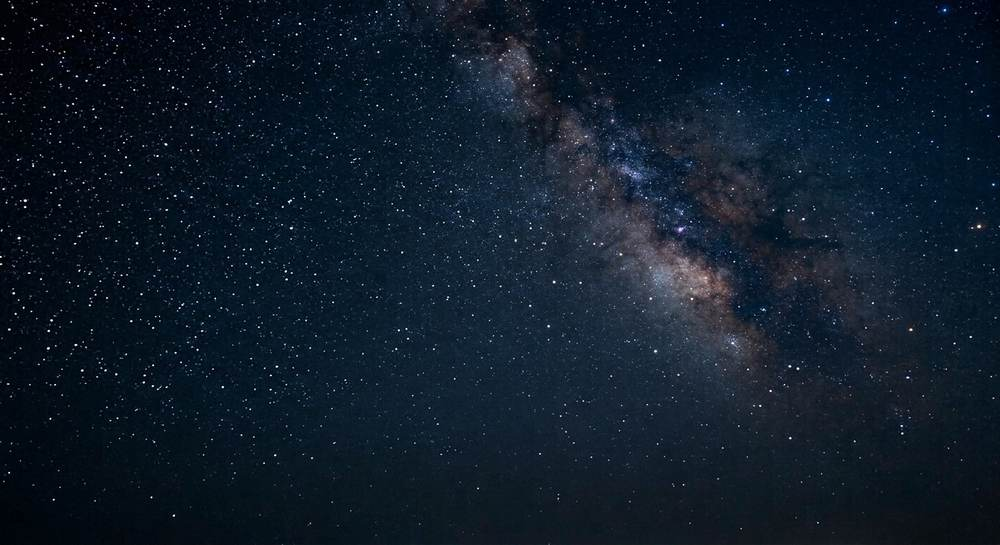
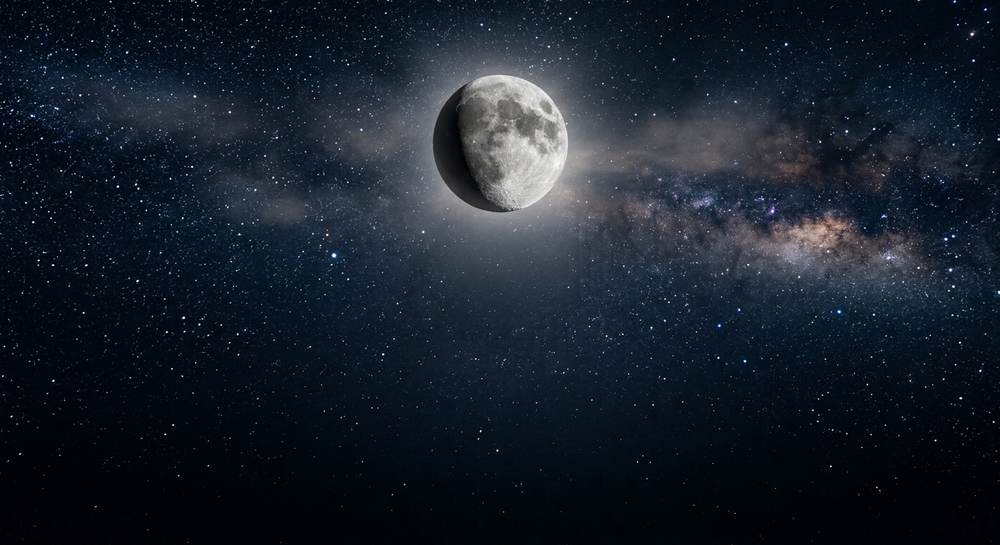
auth-sky: দিনে আসল সূর্য, রাতে আসল চাঁদ (ফটোরিয়ালিস্টিক)
- clear-day.jpg: উপরে-ডানায় বাস্তব সূর্য (glare+bloom); মোবাইল crop-এ ধরে রাখতে clear-day/heat-এ background-position: 70% top
- clear-night.jpg: উপরে-কেন্দ্রে crater-সহ বাস্তব চাঁদ + halo
- লাইট থিমে scrim-এর উপরের wash .30→.16 + হেডারে paper-shadow; ডার্ক থিমে পুরনো wash override (light ink readability)
- ছবিতে জ্যোতিষ্ক থাকায় clear-day/clear-night/heat-এ orb-আভা hidden; dusk-এ বহাল
- CACHE_VERSION 242→243 + ১০৫টি ?v= পিন

diff --git a/index.html b/index.html
@@ -5,9 +5,9 @@
   <meta http-equiv="Content-Security-Policy" content="default-src 'self'; script-src 'self' https://www.gstatic.com https://www.google.com/recaptcha/ https://www.gstatic.com/recaptcha/; frame-src 'self' https://www.google.com/recaptcha/; style-src 'self' 'unsafe-inline'; img-src 'self' data: blob:; font-src 'self'; connect-src 'self' https: wss:; manifest-src 'self'; worker-src 'self'; base-uri 'self'; object-src 'none'; form-action 'none'">
   <meta name="referrer" content="no-referrer">
   <script src="js/sanitize-url.js"></script>
-  <script src="js/app-entry.js?v=242" data-entry="student"></script>
-  <script type="module" src="js/main.js?v=242"></script>
-  <script src="js/topbar-connectivity.js?v=24261005-syncborder" defer></script>
+  <script src="js/app-entry.js?v=243" data-entry="student"></script>
+  <script type="module" src="js/main.js?v=243"></script>
+  <script src="js/topbar-connectivity.js?v=24361005-syncborder" defer></script>
   <script type="module" src="js/realtime-sync-entry.js"></script>
   <script src="js/appearance-boot.js"></script>
   <script src="js/theme-logos.js?v=158"></script>
@@ -33,21 +33,21 @@
        HTML and fetches them in parallel, instead of a render-blocking serial
        waterfall (design-system.css first, its imports one round-trip later).
        tools/css-order-check.mjs + tests/css-order.test.mjs keep this in sync. -->
-  <link rel="stylesheet" href="css/foundation.css?v=242">
-  <link rel="stylesheet" href="css/ui-layout.css?v=242">
-  <link rel="stylesheet" href="css/ui-components.css?v=242">
-  <link rel="stylesheet" href="css/ui-forms.css?v=242">
-  <link rel="stylesheet" href="css/ui-features.css?v=242">
-  <link rel="stylesheet" href="css/notice-board.css?v=242">
-  <link rel="stylesheet" href="css/ui-status.css?v=242">
-  <link rel="stylesheet" href="css/ui-auth.css?v=242">
-  <link rel="stylesheet" href="css/app-polish.css?v=242">
-  <link rel="stylesheet" href="css/student-record.css?v=242">
-  <link rel="stylesheet" href="css/exam-archive.css?v=242">
-  <link rel="stylesheet" href="css/academics.css?v=242">
-  <link rel="stylesheet" href="css/notifications.css?v=242">
-  <link rel="stylesheet" href="css/course-hub.css?v=242">
-  <link rel="stylesheet" href="css/ui-wallet.css?v=242">
+  <link rel="stylesheet" href="css/foundation.css?v=243">
+  <link rel="stylesheet" href="css/ui-layout.css?v=243">
+  <link rel="stylesheet" href="css/ui-components.css?v=243">
+  <link rel="stylesheet" href="css/ui-forms.css?v=243">
+  <link rel="stylesheet" href="css/ui-features.css?v=243">
+  <link rel="stylesheet" href="css/notice-board.css?v=243">
+  <link rel="stylesheet" href="css/ui-status.css?v=243">
+  <link rel="stylesheet" href="css/ui-auth.css?v=243">
+  <link rel="stylesheet" href="css/app-polish.css?v=243">
+  <link rel="stylesheet" href="css/student-record.css?v=243">
+  <link rel="stylesheet" href="css/exam-archive.css?v=243">
+  <link rel="stylesheet" href="css/academics.css?v=243">
+  <link rel="stylesheet" href="css/notifications.css?v=243">
+  <link rel="stylesheet" href="css/course-hub.css?v=243">
+  <link rel="stylesheet" href="css/ui-wallet.css?v=243">
   <script type="module" src="js/ui-accessibility.js"></script>
   <script src="js/launch-screen.js" defer></script>
 </head>

diff --git a/manager.html b/manager.html
@@ -5,9 +5,9 @@
   <meta http-equiv="Content-Security-Policy" content="default-src 'self'; script-src 'self' https://www.gstatic.com https://www.google.com/recaptcha/ https://www.gstatic.com/recaptcha/; frame-src 'self' https://www.google.com/recaptcha/; style-src 'self' 'unsafe-inline'; img-src 'self' data: blob:; font-src 'self'; connect-src 'self' https: wss:; manifest-src 'self'; worker-src 'self'; base-uri 'self'; object-src 'none'">
   <meta name="referrer" content="no-referrer">
   <script src="js/sanitize-url.js"></script>
-  <script src="js/app-entry.js?v=242" data-entry="manager"></script>
-  <script type="module" src="js/manager.js?v=242"></script>
-  <script src="js/topbar-connectivity.js?v=24261005-syncborder" defer></script>
+  <script src="js/app-entry.js?v=243" data-entry="manager"></script>
+  <script type="module" src="js/manager.js?v=243"></script>
+  <script src="js/topbar-connectivity.js?v=24361005-syncborder" defer></script>
   <script type="module" src="js/realtime-sync-entry.js"></script>
   <script src="js/appearance-boot.js"></script>
   <script src="js/theme-logos.js?v=158"></script>
@@ -27,21 +27,21 @@
        HTML and fetches them in parallel, instead of a render-blocking serial
        waterfall (design-system.css first, its imports one round-trip later).
        tools/css-order-check.mjs + tests/css-order.test.mjs keep this in sync. -->
-  <link rel="stylesheet" href="css/foundation.css?v=242">
-  <link rel="stylesheet" href="css/ui-layout.css?v=242">
-  <link rel="stylesheet" href="css/ui-components.css?v=242">
-  <link rel="stylesheet" href="css/ui-forms.css?v=242">
-  <link rel="stylesheet" href="css/ui-features.css?v=242">
-  <link rel="stylesheet" href="css/notice-board.css?v=242">
-  <link rel="stylesheet" href="css/ui-status.css?v=242">
-  <link rel="stylesheet" href="css/ui-auth.css?v=242">
-  <link rel="stylesheet" href="css/app-polish.css?v=242">
-  <link rel="stylesheet" href="css/student-record.css?v=242">
-  <link rel="stylesheet" href="css/exam-archive.css?v=242">
-  <link rel="stylesheet" href="css/academics.css?v=242">
-  <link rel="stylesheet" href="css/notifications.css?v=242">
-  <link rel="stylesheet" href="css/course-hub.css?v=242">
-  <link rel="stylesheet" href="css/ui-wallet.css?v=242">
+  <link rel="stylesheet" href="css/foundation.css?v=243">
+  <link rel="stylesheet" href="css/ui-layout.css?v=243">
+  <link rel="stylesheet" href="css/ui-components.css?v=243">
+  <link rel="stylesheet" href="css/ui-forms.css?v=243">
+  <link rel="stylesheet" href="css/ui-features.css?v=243">
+  <link rel="stylesheet" href="css/notice-board.css?v=243">
+  <link rel="stylesheet" href="css/ui-status.css?v=243">
+  <link rel="stylesheet" href="css/ui-auth.css?v=243">
+  <link rel="stylesheet" href="css/app-polish.css?v=243">
+  <link rel="stylesheet" href="css/student-record.css?v=243">
+  <link rel="stylesheet" href="css/exam-archive.css?v=243">
+  <link rel="stylesheet" href="css/academics.css?v=243">
+  <link rel="stylesheet" href="css/notifications.css?v=243">
+  <link rel="stylesheet" href="css/course-hub.css?v=243">
+  <link rel="stylesheet" href="css/ui-wallet.css?v=243">
   <script type="module" src="js/ui-accessibility.js"></script>
   <script src="js/launch-screen.js" defer></script>
 </head>

diff --git a/payment.html b/payment.html
@@ -5,9 +5,9 @@
   <meta http-equiv="Content-Security-Policy" content="default-src 'self'; script-src 'self' https://www.gstatic.com https://www.google.com/recaptcha/ https://www.gstatic.com/recaptcha/; frame-src 'self' https://www.google.com/recaptcha/; style-src 'self' 'unsafe-inline'; img-src 'self' data: blob:; font-src 'self'; connect-src 'self' https: wss:; manifest-src 'self'; worker-src 'self'; base-uri 'self'; object-src 'none'">
   <meta name="referrer" content="no-referrer">
   <script src="js/sanitize-url.js"></script>
-  <script src="js/app-entry.js?v=242" data-entry="payment"></script>
-  <script type="module" src="js/payment.js?v=242"></script>
-  <script src="js/topbar-connectivity.js?v=24261005-syncborder" defer></script>
+  <script src="js/app-entry.js?v=243" data-entry="payment"></script>
+  <script type="module" src="js/payment.js?v=243"></script>
+  <script src="js/topbar-connectivity.js?v=24361005-syncborder" defer></script>
   <script type="module" src="js/realtime-sync-entry.js"></script>
   <script src="js/appearance-boot.js"></script>
   <script src="js/theme-logos.js?v=158"></script>
@@ -31,21 +31,21 @@
        HTML and fetches them in parallel, instead of a render-blocking serial
        waterfall (design-system.css first, its imports one round-trip later).
        tools/css-order-check.mjs + tests/css-order.test.mjs keep this in sync. -->
-  <link rel="stylesheet" href="css/foundation.css?v=242">
-  <link rel="stylesheet" href="css/ui-layout.css?v=242">
-  <link rel="stylesheet" href="css/ui-components.css?v=242">
-  <link rel="stylesheet" href="css/ui-forms.css?v=242">
-  <link rel="stylesheet" href="css/ui-features.css?v=242">
-  <link rel="stylesheet" href="css/notice-board.css?v=242">
-  <link rel="stylesheet" href="css/ui-status.css?v=242">
-  <link rel="stylesheet" href="css/ui-auth.css?v=242">
-  <link rel="stylesheet" href="css/app-polish.css?v=242">
-  <link rel="stylesheet" href="css/student-record.css?v=242">
-  <link rel="stylesheet" href="css/exam-archive.css?v=242">
-  <link rel="stylesheet" href="css/academics.css?v=242">
-  <link rel="stylesheet" href="css/notifications.css?v=242">
-  <link rel="stylesheet" href="css/course-hub.css?v=242">
-  <link rel="stylesheet" href="css/ui-wallet.css?v=242">
+  <link rel="stylesheet" href="css/foundation.css?v=243">
+  <link rel="stylesheet" href="css/ui-layout.css?v=243">
+  <link rel="stylesheet" href="css/ui-components.css?v=243">
+  <link rel="stylesheet" href="css/ui-forms.css?v=243">
+  <link rel="stylesheet" href="css/ui-features.css?v=243">
+  <link rel="stylesheet" href="css/notice-board.css?v=243">
+  <link rel="stylesheet" href="css/ui-status.css?v=243">
+  <link rel="stylesheet" href="css/ui-auth.css?v=243">
+  <link rel="stylesheet" href="css/app-polish.css?v=243">
+  <link rel="stylesheet" href="css/student-record.css?v=243">
+  <link rel="stylesheet" href="css/exam-archive.css?v=243">
+  <link rel="stylesheet" href="css/academics.css?v=243">
+  <link rel="stylesheet" href="css/notifications.css?v=243">
+  <link rel="stylesheet" href="css/course-hub.css?v=243">
+  <link rel="stylesheet" href="css/ui-wallet.css?v=243">
   <script type="module" src="js/ui-accessibility.js"></script>
   <script src="js/launch-screen.js" defer></script>
 </head>

diff --git a/teacher.html b/teacher.html
@@ -5,9 +5,9 @@
   <meta http-equiv="Content-Security-Policy" content="default-src 'self'; script-src 'self' https://www.gstatic.com https://www.google.com/recaptcha/ https://www.gstatic.com/recaptcha/; frame-src 'self' https://www.google.com/recaptcha/; style-src 'self' 'unsafe-inline'; img-src 'self' data: blob:; font-src 'self'; connect-src 'self' https: wss:; manifest-src 'self'; worker-src 'self'; base-uri 'self'; object-src 'none'">
   <meta name="referrer" content="no-referrer">
   <script src="js/sanitize-url.js"></script>
-  <script src="js/app-entry.js?v=242" data-entry="teacher"></script>
-  <script type="module" src="js/teacher.js?v=242"></script>
-  <script src="js/topbar-connectivity.js?v=24261005-syncborder" defer></script>
+  <script src="js/app-entry.js?v=243" data-entry="teacher"></script>
+  <script type="module" src="js/teacher.js?v=243"></script>
+  <script src="js/topbar-connectivity.js?v=24361005-syncborder" defer></script>
   <script type="module" src="js/realtime-sync-entry.js"></script>
   <script src="js/appearance-boot.js"></script>
   <script src="js/theme-logos.js?v=158"></script>
@@ -30,21 +30,21 @@
        HTML and fetches them in parallel, instead of a render-blocking serial
        waterfall (design-system.css first, its imports one round-trip later).
        tools/css-order-check.mjs + tests/css-order.test.mjs keep this in sync. -->
-  <link rel="stylesheet" href="css/foundation.css?v=242">
-  <link rel="stylesheet" href="css/ui-layout.css?v=242">
-  <link rel="stylesheet" href="css/ui-components.css?v=242">
-  <link rel="stylesheet" href="css/ui-forms.css?v=242">
-  <link rel="stylesheet" href="css/ui-features.css?v=242">
-  <link rel="stylesheet" href="css/notice-board.css?v=242">
-  <link rel="stylesheet" href="css/ui-status.css?v=242">
-  <link rel="stylesheet" href="css/ui-auth.css?v=242">
-  <link rel="stylesheet" href="css/app-polish.css?v=242">
-  <link rel="stylesheet" href="css/student-record.css?v=242">
-  <link rel="stylesheet" href="css/exam-archive.css?v=242">
-  <link rel="stylesheet" href="css/academics.css?v=242">
-  <link rel="stylesheet" href="css/notifications.css?v=242">
-  <link rel="stylesheet" href="css/course-hub.css?v=242">
-  <link rel="stylesheet" href="css/ui-wallet.css?v=242">
+  <link rel="stylesheet" href="css/foundation.css?v=243">
+  <link rel="stylesheet" href="css/ui-layout.css?v=243">
+  <link rel="stylesheet" href="css/ui-components.css?v=243">
+  <link rel="stylesheet" href="css/ui-forms.css?v=243">
+  <link rel="stylesheet" href="css/ui-features.css?v=243">
+  <link rel="stylesheet" href="css/notice-board.css?v=243">
+  <link rel="stylesheet" href="css/ui-status.css?v=243">
+  <link rel="stylesheet" href="css/ui-auth.css?v=243">
+  <link rel="stylesheet" href="css/app-polish.css?v=243">
+  <link rel="stylesheet" href="css/student-record.css?v=243">
+  <link rel="stylesheet" href="css/exam-archive.css?v=243">
+  <link rel="stylesheet" href="css/academics.css?v=243">
+  <link rel="stylesheet" href="css/notifications.css?v=243">
+  <link rel="stylesheet" href="css/course-hub.css?v=243">
+  <link rel="stylesheet" href="css/ui-wallet.css?v=243">
   <script type="module" src="js/ui-accessibility.js"></script>
   <script src="js/launch-screen.js" defer></script>
 </head>

diff --git a/admin.html b/admin.html
@@ -5,9 +5,9 @@
   <meta http-equiv="Content-Security-Policy" content="default-src 'self'; script-src 'self' https://www.gstatic.com https://www.google.com/recaptcha/ https://www.gstatic.com/recaptcha/; frame-src 'self' https://www.google.com/recaptcha/; style-src 'self' 'unsafe-inline'; img-src 'self' data: blob:; font-src 'self'; connect-src 'self' https: wss:; manifest-src 'self'; worker-src 'self'; base-uri 'self'; object-src 'none'">
   <meta name="referrer" content="no-referrer">
   <script src="js/sanitize-url.js"></script>
-  <script src="js/app-entry.js?v=242" data-entry="admin"></script>
-  <script type="module" src="js/admin.js?v=242"></script>
-  <script src="js/topbar-connectivity.js?v=24261005-syncborder" defer></script>
+  <script src="js/app-entry.js?v=243" data-entry="admin"></script>
+  <script type="module" src="js/admin.js?v=243"></script>
+  <script src="js/topbar-connectivity.js?v=24361005-syncborder" defer></script>
   <script type="module" src="js/realtime-sync-entry.js"></script>
   <script src="js/appearance-boot.js"></script>
   <script src="js/theme-logos.js?v=158"></script>
@@ -35,21 +35,21 @@
        HTML and fetches them in parallel, instead of a render-blocking serial
        waterfall (design-system.css first, its imports one round-trip later).
        tools/css-order-check.mjs + tests/css-order.test.mjs keep this in sync. -->
-  <link rel="stylesheet" href="css/foundation.css?v=242">
-  <link rel="stylesheet" href="css/ui-layout.css?v=242">
-  <link rel="stylesheet" href="css/ui-components.css?v=242">
-  <link rel="stylesheet" href="css/ui-forms.css?v=242">
-  <link rel="stylesheet" href="css/ui-features.css?v=242">
-  <link rel="stylesheet" href="css/notice-board.css?v=242">
-  <link rel="stylesheet" href="css/ui-status.css?v=242">
-  <link rel="stylesheet" href="css/ui-auth.css?v=242">
-  <link rel="stylesheet" href="css/app-polish.css?v=242">
-  <link rel="stylesheet" href="css/student-record.css?v=242">
-  <link rel="stylesheet" href="css/exam-archive.css?v=242">
-  <link rel="stylesheet" href="css/academics.css?v=242">
-  <link rel="stylesheet" href="css/notifications.css?v=242">
-  <link rel="stylesheet" href="css/course-hub.css?v=242">
-  <link rel="stylesheet" href="css/ui-wallet.css?v=242">
+  <link rel="stylesheet" href="css/foundation.css?v=243">
+  <link rel="stylesheet" href="css/ui-layout.css?v=243">
+  <link rel="stylesheet" href="css/ui-components.css?v=243">
+  <link rel="stylesheet" href="css/ui-forms.css?v=243">
+  <link rel="stylesheet" href="css/ui-features.css?v=243">
+  <link rel="stylesheet" href="css/notice-board.css?v=243">
+  <link rel="stylesheet" href="css/ui-status.css?v=243">
+  <link rel="stylesheet" href="css/ui-auth.css?v=243">
+  <link rel="stylesheet" href="css/app-polish.css?v=243">
+  <link rel="stylesheet" href="css/student-record.css?v=243">
+  <link rel="stylesheet" href="css/exam-archive.css?v=243">
+  <link rel="stylesheet" href="css/academics.css?v=243">
+  <link rel="stylesheet" href="css/notifications.css?v=243">
+  <link rel="stylesheet" href="css/course-hub.css?v=243">
+  <link rel="stylesheet" href="css/ui-wallet.css?v=243">
   <script type="module" src="js/ui-accessibility.js"></script>
   <script src="js/launch-screen.js" defer></script>
 </head>

diff --git a/css/ui-wallet.css b/css/ui-wallet.css
@@ -834,14 +834,15 @@ label { font-size: 13.5px; font-weight: 600; margin-block: 14px 6px; }
 @keyframes apc-cloud-drift { from { transform: translateX(0); } to { transform: translateX(28px); } }
 /* No sun glow behind a full cloud deck; a low warm one at dusk; a pale moon
    glow at night. */
+.auth-screen[data-sky=clear-day] .auth-orb,
+.auth-screen[data-sky=heat] .auth-orb,
+.auth-screen[data-sky=clear-night] .auth-orb,
 .auth-screen[data-sky=cloudy] .auth-orb,
 .auth-screen[data-sky=rain] .auth-orb,
 .auth-screen[data-sky=storm] .auth-orb,
 .auth-screen[data-sky=fog] .auth-orb { display: none; }
 .auth-screen[data-sky=dusk] .auth-orb { top: 26vh; right: 12%; width: 240px; height: 160px;
   background: var(--sky-glow-dusk); }
-.auth-screen[data-sky=clear-night] .auth-orb { top: -30px; right: 14%; width: 150px; height: 150px;
-  background: var(--sky-glow-night); }
 .auth-screen[data-sky=storm] .auth-cloud { opacity: .45; }
 .auth-screen[data-sky=clear-night] .auth-cloud { opacity: .5; background: var(--sky-haze-night); }
 @media (prefers-reduced-motion: reduce) {
@@ -852,9 +853,9 @@ label { font-size: 13.5px; font-weight: 600; margin-block: 14px 6px; }
    state's photograph is ever fetched. */
 .auth-screen[data-sky] { background-position: center top; background-repeat: no-repeat; }
 .auth-screen[data-sky=clear-day] { background-image: var(--sky-scrim-bright), url('../assets/sky/clear-day.jpg'), var(--sky-fall-day);
-  background-size: auto, cover, auto; }
+  background-size: auto, cover, auto;  background-position: 70% top;}
 .auth-screen[data-sky=heat] { background-image: var(--sky-warm-wash), var(--sky-scrim-bright), url('../assets/sky/clear-day.jpg'), var(--sky-fall-heat);
-  background-size: auto, auto, cover, auto; }
+  background-size: auto, auto, cover, auto;  background-position: 70% top;}
 .auth-screen[data-sky=dusk] { background-image: var(--sky-scrim-dusk), url('../assets/sky/dusk.jpg'), var(--sky-fall-dusk);
   background-size: auto, cover, auto; }
 .auth-screen[data-sky=clear-night] { background-image: var(--sky-scrim-night), url('../assets/sky/clear-night.jpg'), var(--sky-fall-night);
@@ -870,6 +871,14 @@ label { font-size: 13.5px; font-weight: 600; margin-block: 14px 6px; }
 /* Over a photograph the brand is hero text: light states keep the ink
    colours under the scrim, dark skies switch to light ink with a soft
    shadow so it never fights the clouds. */
+.auth-screen[data-sky=clear-day] .auth-brand h1,
+.auth-screen[data-sky=heat] .auth-brand h1,
+.auth-screen[data-sky=cloudy] .auth-brand h1,
+.auth-screen[data-sky=fog] .auth-brand h1,
+.auth-screen[data-sky=clear-day] .auth-brand p,
+.auth-screen[data-sky=heat] .auth-brand p,
+.auth-screen[data-sky=cloudy] .auth-brand p,
+.auth-screen[data-sky=fog] .auth-brand p { text-shadow: var(--sky-ink-shadow-paper); }
 .auth-screen[data-sky=clear-night] .auth-brand h1,
 .auth-screen[data-sky=storm] .auth-brand h1,
 .auth-screen[data-sky=dusk] .auth-brand h1 { color: var(--sky-ink-strong); text-shadow: var(--sky-ink-shadow); }

diff --git a/css/foundation.css b/css/foundation.css
@@ -134,11 +134,11 @@ html[data-theme=dark] ::selection{background:#5ea9ff38;color:var(--color-text)}
  --sky-haze-night:radial-gradient(ellipse at center, rgba(205,220,245,.22), rgba(205,220,245,0) 70%);
  --sky-warm-wash:linear-gradient(180deg, rgba(255,158,64,.16), rgba(255,158,64,0) 55%);
  --sky-fog-wash:linear-gradient(180deg, rgba(236,234,230,.55), rgba(236,234,230,.22) 45%, rgba(236,234,230,0) 72%);
- --sky-scrim-bright:linear-gradient(180deg, rgba(var(--sky-fade),.30) 0%, rgba(var(--sky-fade),.72) 34%, rgba(var(--sky-fade),.96) 58%, var(--color-bg) 86%);
+ --sky-scrim-bright:linear-gradient(180deg, rgba(var(--sky-fade),.16) 0%, rgba(var(--sky-fade),.60) 34%, rgba(var(--sky-fade),.96) 58%, var(--color-bg) 86%);
  --sky-scrim-mid:linear-gradient(180deg, rgba(var(--sky-fade),.38) 0%, rgba(var(--sky-fade),.78) 36%, rgba(var(--sky-fade),.96) 60%, var(--color-bg) 88%);
  --sky-scrim-rain:linear-gradient(180deg, rgba(var(--sky-fade),.30) 0%, rgba(var(--sky-fade),.70) 38%, rgba(var(--sky-fade),.95) 62%, var(--color-bg) 88%);
  --sky-scrim-dusk:linear-gradient(180deg, rgba(var(--sky-fade),.12) 0%, rgba(var(--sky-fade),.62) 38%, rgba(var(--sky-fade),.95) 64%, var(--color-bg) 90%);
- --sky-scrim-night:linear-gradient(180deg, rgba(var(--sky-fade),0) 0%, rgba(var(--sky-fade),.50) 36%, rgba(var(--sky-fade),.92) 64%, var(--color-bg) 92%);
+ --sky-scrim-night:linear-gradient(180deg, rgba(var(--sky-fade),0) 0%, rgba(var(--sky-fade),.44) 36%, rgba(var(--sky-fade),.92) 64%, var(--color-bg) 92%);
  --sky-scrim-storm:linear-gradient(180deg, rgba(var(--sky-fade),0) 0%, rgba(var(--sky-fade),.45) 38%, rgba(var(--sky-fade),.90) 66%, var(--color-bg) 92%);
  --sky-scrim-fog:linear-gradient(180deg, rgba(var(--sky-fade),.45) 0%, rgba(var(--sky-fade),.85) 40%, rgba(var(--sky-fade),.98) 62%, var(--color-bg) 88%);
  --sky-fall-day:linear-gradient(180deg, #cfe8ff 0%, #f4f7fb 42%, var(--color-bg) 100%);
@@ -150,9 +150,12 @@ html[data-theme=dark] ::selection{background:#5ea9ff38;color:var(--color-text)}
  --sky-fall-storm:linear-gradient(180deg, #3d4a5c 0%, #8b97a8 50%, var(--color-bg) 100%);
  --sky-fall-fog:linear-gradient(180deg, #d5d2cc 0%, #eceae6 50%, var(--color-bg) 100%);
  --sky-ink-strong:#eef4fc;--sky-ink-soft:#dce5f0;
+ --sky-ink-shadow-paper:0 1px 2px rgba(var(--sky-fade),.9), 0 0 14px rgba(var(--sky-fade),.95);
  --sky-ink-shadow:0 1px 14px rgba(8,14,26,.5);--sky-ink-shadow-soft:0 1px 10px rgba(8,14,26,.45);
 }
-html[data-theme=dark]{ --sky-fade:0,0,0; }
+html[data-theme=dark]{ --sky-fade:0,0,0;
+  /* light ink over a bright day photo needs the stronger wash back */
+  --sky-scrim-bright:linear-gradient(180deg, rgba(var(--sky-fade),.30) 0%, rgba(var(--sky-fade),.72) 34%, rgba(var(--sky-fade),.96) 58%, var(--color-bg) 86%); }
 /* ── Birthday celebration palette (wallet skin) ───────────────────────────
    Same rule as the weather sky: the skin composes, the palette owns colours. */
 :root{

diff --git a/offline-roles.html b/offline-roles.html
@@ -1,19 +1,19 @@
 <!doctype html>
-<html lang="bn"><head><meta charset="utf-8"><meta name="referrer" content="no-referrer"><script src="js/sanitize-url.js"></script><meta name="viewport" content="width=device-width,initial-scale=1"><title>Active Plus — Offline Role Workspace</title>    <link rel="stylesheet" href="css/foundation.css?v=242">
-  <link rel="stylesheet" href="css/ui-layout.css?v=242">
-  <link rel="stylesheet" href="css/ui-components.css?v=242">
-  <link rel="stylesheet" href="css/ui-forms.css?v=242">
-  <link rel="stylesheet" href="css/ui-features.css?v=242">
-  <link rel="stylesheet" href="css/notice-board.css?v=242">
-  <link rel="stylesheet" href="css/ui-status.css?v=242">
-  <link rel="stylesheet" href="css/ui-auth.css?v=242">
-  <link rel="stylesheet" href="css/app-polish.css?v=242">
-  <link rel="stylesheet" href="css/student-record.css?v=242">
-  <link rel="stylesheet" href="css/exam-archive.css?v=242">
-  <link rel="stylesheet" href="css/academics.css?v=242">
-  <link rel="stylesheet" href="css/notifications.css?v=242">
-  <link rel="stylesheet" href="css/course-hub.css?v=242">
-  <link rel="stylesheet" href="css/ui-wallet.css?v=242">
+<html lang="bn"><head><meta charset="utf-8"><meta name="referrer" content="no-referrer"><script src="js/sanitize-url.js"></script><meta name="viewport" content="width=device-width,initial-scale=1"><title>Active Plus — Offline Role Workspace</title>    <link rel="stylesheet" href="css/foundation.css?v=243">
+  <link rel="stylesheet" href="css/ui-layout.css?v=243">
+  <link rel="stylesheet" href="css/ui-components.css?v=243">
+  <link rel="stylesheet" href="css/ui-forms.css?v=243">
+  <link rel="stylesheet" href="css/ui-features.css?v=243">
+  <link rel="stylesheet" href="css/notice-board.css?v=243">
+  <link rel="stylesheet" href="css/ui-status.css?v=243">
+  <link rel="stylesheet" href="css/ui-auth.css?v=243">
+  <link rel="stylesheet" href="css/app-polish.css?v=243">
+  <link rel="stylesheet" href="css/student-record.css?v=243">
+  <link rel="stylesheet" href="css/exam-archive.css?v=243">
+  <link rel="stylesheet" href="css/academics.css?v=243">
+  <link rel="stylesheet" href="css/notifications.css?v=243">
+  <link rel="stylesheet" href="css/course-hub.css?v=243">
+  <link rel="stylesheet" href="css/ui-wallet.css?v=243">
   <script type="module" src="js/ui-accessibility.js"></script>
   <script src="js/launch-screen.js" defer></script>
 </head>

diff --git a/sw.js b/sw.js
@@ -74,7 +74,7 @@
 // v181: precache the Admin-only Staff Management stylesheet.
 // v182: precache the authenticated Question Bank V2 sync modules.
 // v183: precache the Admin V2 staged-cutover migration console.
-const CACHE_VERSION = 242;
+const CACHE_VERSION = 243;
 const CACHE_NAME = `active-plus-student-v${CACHE_VERSION}-minimal-education`;
 const APP_SHELL = [
   './css/notifications.css',
